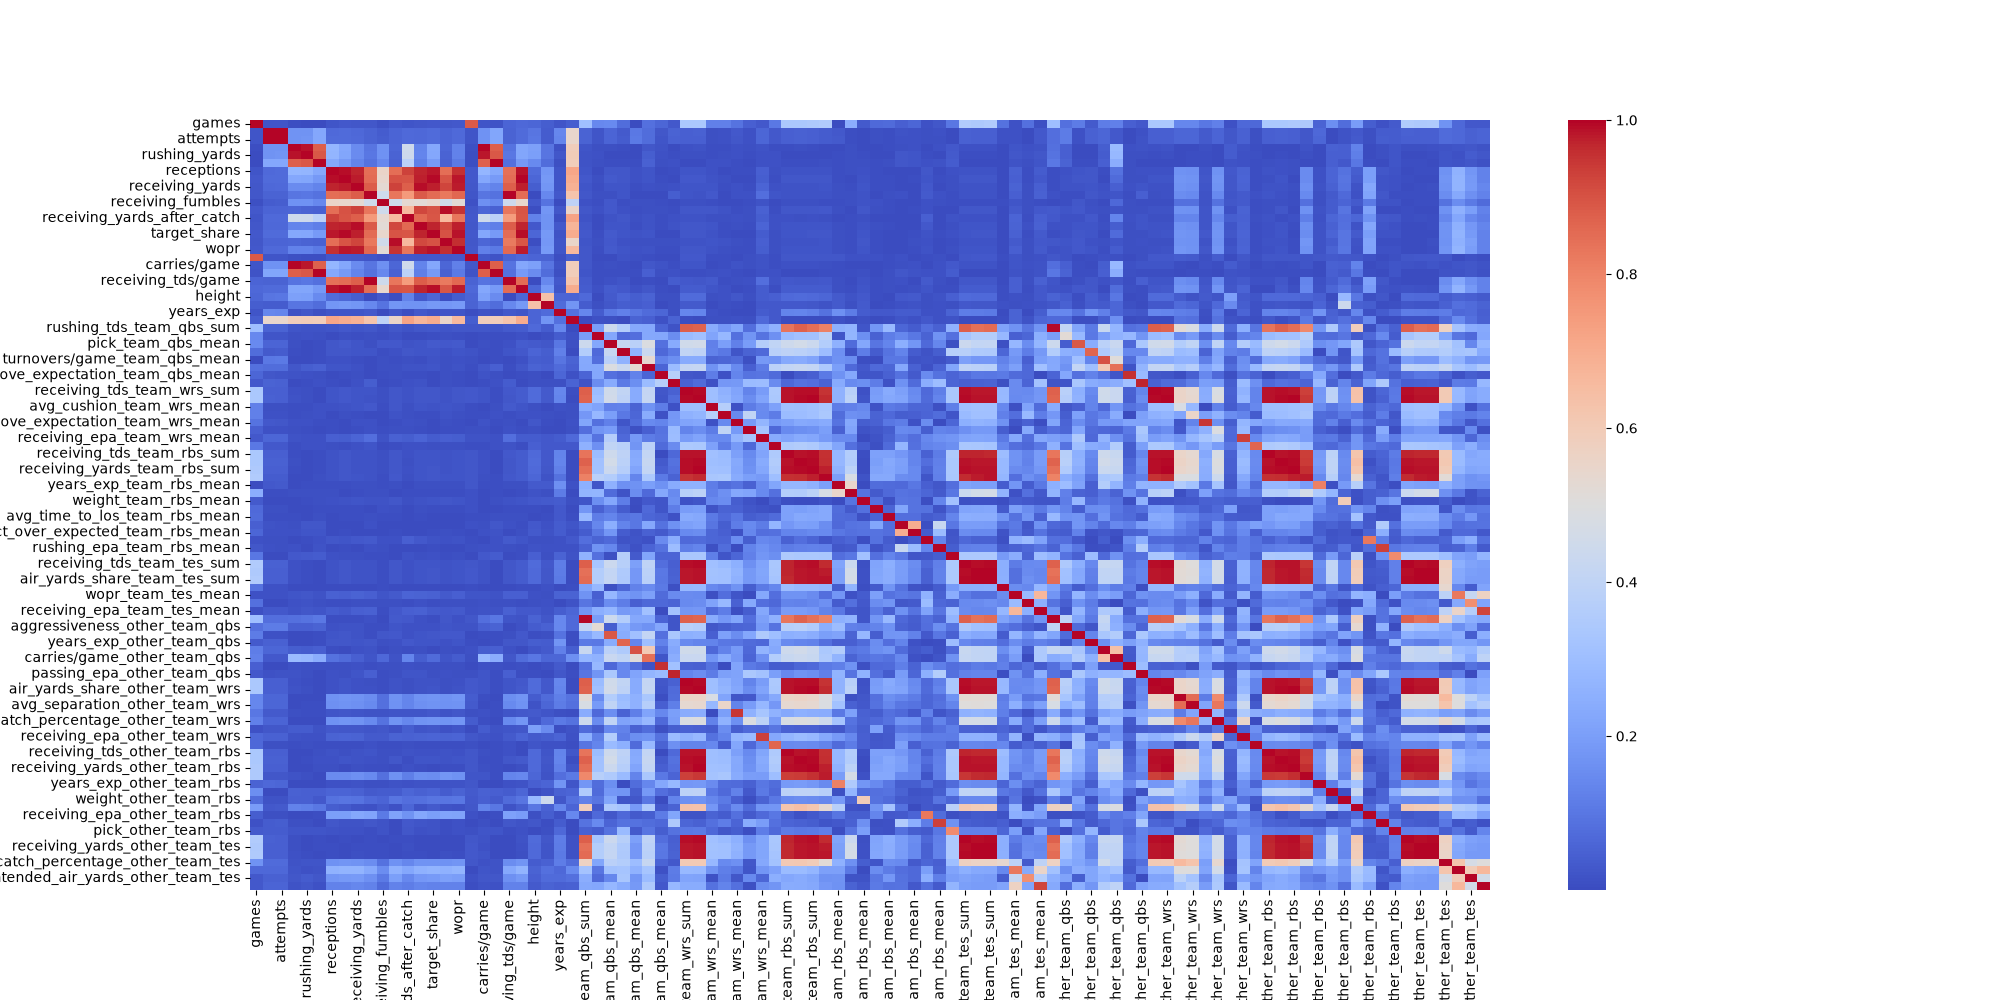
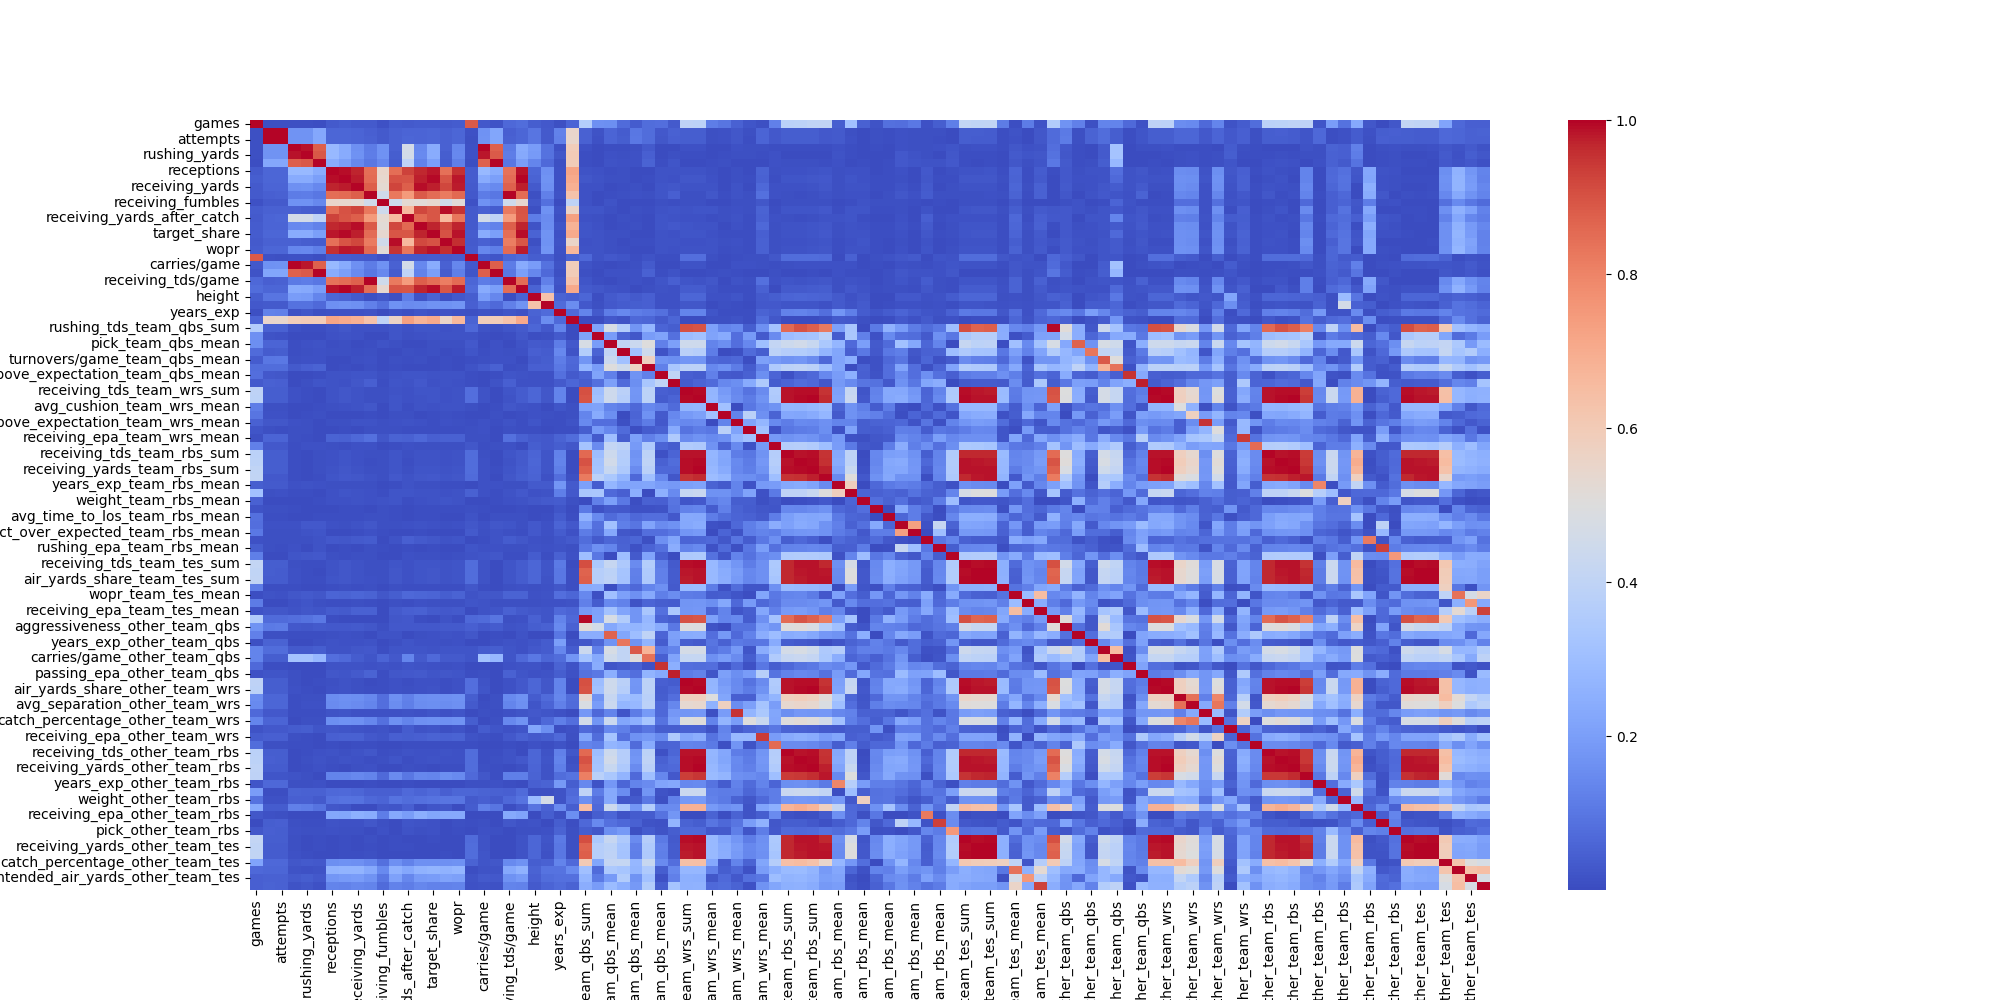
Revert to Current Season = 2024

diff --git a/api/model_executor.py b/api/model_executor.py
@@ -40,9 +40,9 @@ class ModelExecutor:
             fdf.players_stats.to_parquet(parquet_path, index=False)
 
         self.rb_seasonal = Seasonal(points_type='ppr', position = 'RB', type = 'xgb', cur_season = cur_season)
-        self.qb_seasonal = Seasonal(points_type='ppr', position = 'QB', type = 'xgb', cur_season = cur_season)
-        self.te_seasonal = Seasonal(points_type='ppr', position = 'TE', type = 'xgb', cur_season = cur_season)
-        self.wr_seasonal = Seasonal(points_type='ppr', position = 'WR', type = 'xgb', cur_season = cur_season)
+        # self.qb_seasonal = Seasonal(points_type='ppr', position = 'QB', type = 'xgb', cur_season = cur_season)
+        # self.te_seasonal = Seasonal(points_type='ppr', position = 'TE', type = 'xgb', cur_season = cur_season)
+        # self.wr_seasonal = Seasonal(points_type='ppr', position = 'WR', type = 'xgb', cur_season = cur_season)
 
 
     def run(self):
@@ -56,39 +56,39 @@ class ModelExecutor:
         rb_seasonal.cross_validate()
 
         
-        qb_seasonal = self.qb_seasonal
-        qb_seasonal.corr()
+        # qb_seasonal = self.qb_seasonal
+        # qb_seasonal.corr()
 
-        # only outputting standard/game right now
-        # rb_seasonal.set_features()
-        qb_seasonal.train_model(qb_seasonal.model)
-        qb_seasonal.test_model()
-        qb_seasonal.cross_validate()
+        # # only outputting standard/game right now
+        # # rb_seasonal.set_features()
+        # qb_seasonal.train_model(qb_seasonal.model)
+        # qb_seasonal.test_model()
+        # qb_seasonal.cross_validate()
 
-        te_seasonal = self.te_seasonal
-        te_seasonal.corr()
+        # te_seasonal = self.te_seasonal
+        # te_seasonal.corr()
 
-        # only outputting standard/game right now
-        te_seasonal.set_features()
-        te_seasonal.train_model(te_seasonal.model)
-        te_seasonal.test_model()
-        te_seasonal.cross_validate()
+        # # only outputting standard/game right now
+        # te_seasonal.set_features()
+        # te_seasonal.train_model(te_seasonal.model)
+        # te_seasonal.test_model()
+        # te_seasonal.cross_validate()
 
-        wr_seasonal = self.wr_seasonal
-        wr_seasonal.corr()
+        # wr_seasonal = self.wr_seasonal
+        # wr_seasonal.corr()
 
-        # only outputting standard/game right now
-        # wr_seasonal.set_features()
-        wr_seasonal.train_model(wr_seasonal.model)
-        wr_seasonal.test_model()
-        wr_seasonal.cross_validate()
+        # # only outputting standard/game right now
+        # # wr_seasonal.set_features()
+        # wr_seasonal.train_model(wr_seasonal.model)
+        # wr_seasonal.test_model()
+        # wr_seasonal.cross_validate()
 
 
 
         print(rb_seasonal)
-        print(te_seasonal)
-        print(wr_seasonal)
-        print(qb_seasonal)
+        # print(te_seasonal)
+        # print(wr_seasonal)
+        # print(qb_seasonal)
 if __name__ == "__main__":
     parser = argparse.ArgumentParser()
     parser.add_argument("--current_season", type=int, default=nfl.get_current_season())
